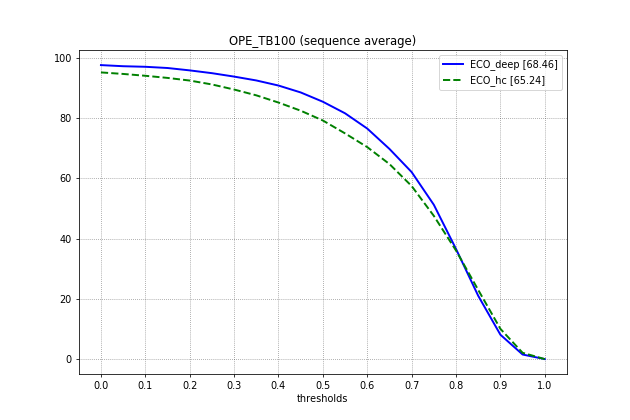
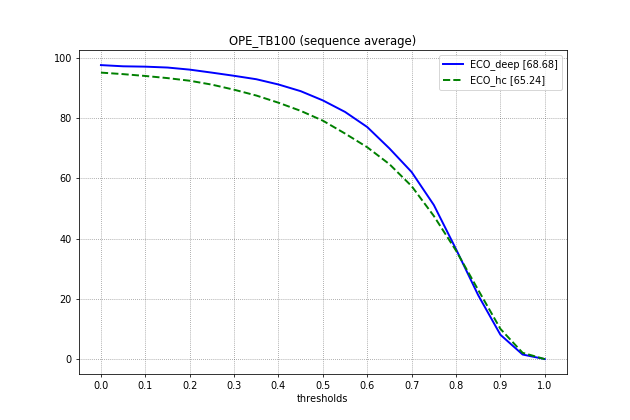
eco_deep score improve

diff --git a/eco/config/otb_deep_config.py b/eco/config/otb_deep_config.py
@@ -49,7 +49,7 @@ class OTBDeepConfig:
 
     # learning parameters
     output_sigma_factor = 1 / 8.     # label function sigma
-    learning_rate = 0.009
+    learning_rate = 0.010
     num_samples = 50
     sample_replace_startegy = 'lowest_prior'
     lt_size = 0

diff --git a/eco/config/config.py b/eco/config/config.py
@@ -3,5 +3,5 @@ from .otb_deep_config import OTBDeepConfig
 from .otb_hc_config import OTBHCConfig
 
 # config = DemoConfig()
-# config = OTBDeepConfig()
-config = OTBHCConfig()
+config = OTBDeepConfig()
+# config = OTBHCConfig()

diff --git a/README.md b/README.md
@@ -14,7 +14,7 @@ python bin/demo_ECO_hc.py --video_dir path/to/video
 
 | Tracker  | AUC           |
 | -------- | ------------- |
-| ECO_deep | 68.5(vs 70.0) |
+| ECO_deep | 68.7(vs 70.0) |
 | ECO_hc   | 65.2(vs 65.0) |
 
 ![](./figure/otb100.png)
